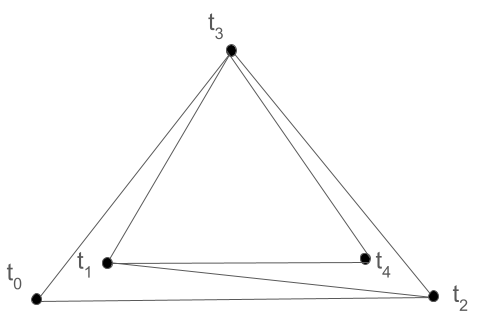
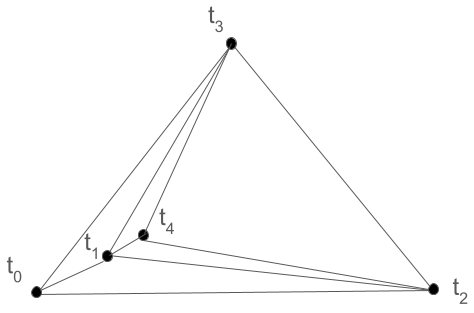
Adding 2D MCF

diff --git a/docs/tutorials/planar-graph.md b/docs/tutorials/planar-graph.md
@@ -2,41 +2,41 @@
 
 A planar graph is a graph that can be drawn on a plane in such a way that its edges intersect only at their end point, i.e, its edges do not cross each other. In the context of this package, we assume that planar graphs are connected and all cycles in a planar graph are of the same length. Planar graphs satisfy Euler's formula
 
-.. math::
-
+$$
    v - e + f = 2
+$$
 
-where "v" is the number of vertices, "e" is the number of edges and "f" is the number of faces in the graph.
+where $v$ is the number of vertices, $e$ is the number of edges and $f$ is the number of faces in the graph.
 
 We implement a generic interface for a planar graph via `spurt.graph.PlanarGraphInterface`. We support the following types of planar graphs in `spurt`.
 
 
 ## Regular 2D grid graph
 
-This corresponds to a regular 2D grid underlying the classical Minimum Cost Flow (MCF) problem :cite:t:`Costantini1998MinimumCostFlow`. Each cycle in this planar graph is of length 4. We can create a regular grid 2D graph using
+This corresponds to a regular 2D grid underlying the classical Minimum Cost Flow (MCF) problem [@Costantini1998MinimumCostFlow]. Each cycle in this planar graph is of length 4. We can create a regular grid 2D graph using
 
-.. code-block:: python
-
-   g = spurt.graph.Reg2DGraph((nlines, npixels))
+``` py
+g = spurt.graph.Reg2DGraph((nlines, npixels))
+```
 
 
 ## Irregular 2D grid graph
 
-This corresponds to an irregular 2D grid underlying the sparse MCF problem :cite:t:`Costantini1999SparseMCF`. A Delaunay triangulation for a sparse grid can be created as follows
+This corresponds to an irregular 2D grid underlying the sparse MCF problem [@Costantini1999SparseMCF]. A Delaunay triangulation for a sparse grid can be created as follows
 
-.. code-block:: python
-
-   g = spurt.graph.DelaunayGraph(coords)
+``` py
+g = spurt.graph.DelaunayGraph(coords)
+```
 
 where coords is a `Npts x 2` numpy array.
 
 
 ## Hop3 graph
 
-This is a graph that is primarily used with phase-linked stacks of narrow baseline SAR sensors like Sentinel-1 and NISAR during temporal unwrapping. It is meant to be a replacement to the Delaunay graph used in the temporal dimension in the original EMCF method :cite:t:`Pepe2006ExtensionMinimumCost`. In a Hop3 graph each SAR image is connected to three acquisitions before and after it in time.
+This is a graph that is primarily used with phase-linked stacks of narrow baseline SAR sensors like Sentinel-1 and NISAR during temporal unwrapping. It is meant to be a replacement to the Delaunay graph used in the temporal dimension in the original EMCF method [@Pepe2006ExtensionMinimumCost]. In a Hop3 graph each SAR image is connected to three acquisitions before and after it in time.
 
-The Figure below shows how such a connected network of interferograms can always be generated by placing the node corresponding to acquisition `t_i` inside the triangle represented by nodes `t_{i-3}`, `t_{i-2}` and `t_{i-1}` on a plane.
+The Figure below shows how such a connected network of interferograms can always be generated by placing the node corresponding to acquisition $t_i$ inside the triangle represented by nodes $t_{i-3}$, $t_{i-2}$ and $t_{i-1}$ on a plane.
 
 <p align="center">
-  <img width="400" height="400" src="hop3-graph.png">
+  <img width="600" height="400" src="hop3-graph.png">
 </p>

diff --git a/docs/tutorials/mcf-2d.md b/docs/tutorials/mcf-2d.md
@@ -1,0 +1,36 @@
+# 2D Phase unwrapping using Minimum Cost Flow (MCF)
+
+2D unwrappers can be easily built by combining the MCF solvers and planar graph interfaces available in `spurt`. In the examples below, we use the OR Tools solver but the interface classes can be used to add support for other MCF solvers as well.
+
+
+## Regular grid 2D MCF
+
+A regular 2D grid unwrapper can be implemented as follows using `spurt`
+
+``` py
+# igram is a 2D array of np.complex64
+g = spurt.graph.Reg2DGraph(igram.shape)
+solver = spurt.mcf.ORMCFSolver(g)
+
+# Assume unit cost
+cost = np.ones(solver.edges.shape[0], dtype=int)
+unw, _ = solver.unwrap_one(igram.flatten(), cost)
+unw = unw.reshape(igram.shape)
+```
+
+## Irregular grid 2D MCF
+
+A sparse 2D grid unwrapper can be implemented as follows using `spurt`
+
+``` py
+
+# igram is a 1D array of type np.complex64 and length npts
+# xy is a npts x 2 array with coordinates of pixels
+
+g = spurt.graph.DelaunayGraph(spurt.graph.Reg2DGraph(xy)
+solver = spurt.mcf.ORMCFSolver(graph)
+
+# Use unit cost
+cost = np.ones(solver.edges.shape[0], dtype=int)
+unw, _ = solver.unwrap_one(igram, cost)
+```
